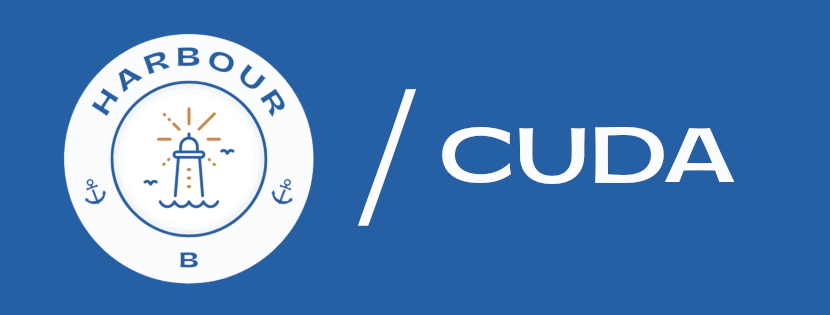
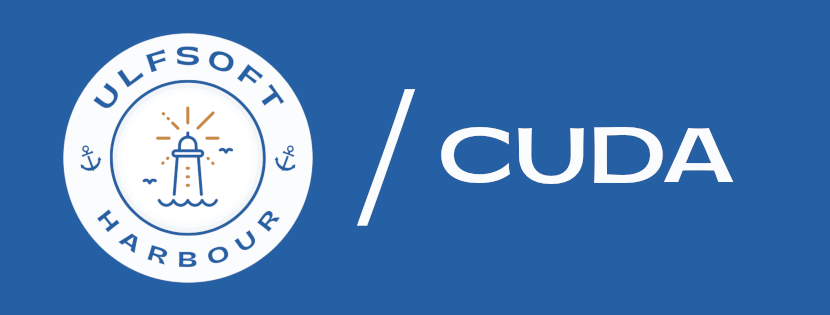
New name

diff --git a/README.md b/README.md
@@ -1,8 +1,8 @@
-![harbourb/CUDA](docs/images/header.png)
+![ulfsoft-harbour/CUDA](docs/images/header.png)
 
-# harbourb/CUDA
+# ulfsoft-harbour/CUDA
 
 ## Usage
-Take a look at [GitHub Packages](https://github.com/harbourb/CUDA/pkgs/container/cuda%2Fsdk)
+Take a look at [GitHub Packages](https://github.com/ulfsoft-harbour/CUDA/pkgs/container/cuda%2Fsdk)
 
-or use `docker pull ghcr.io/harbourb/cuda/sdk:latest`
+or use `docker pull ghcr.io/ulfsoft-harbour/cuda/sdk:latest`
